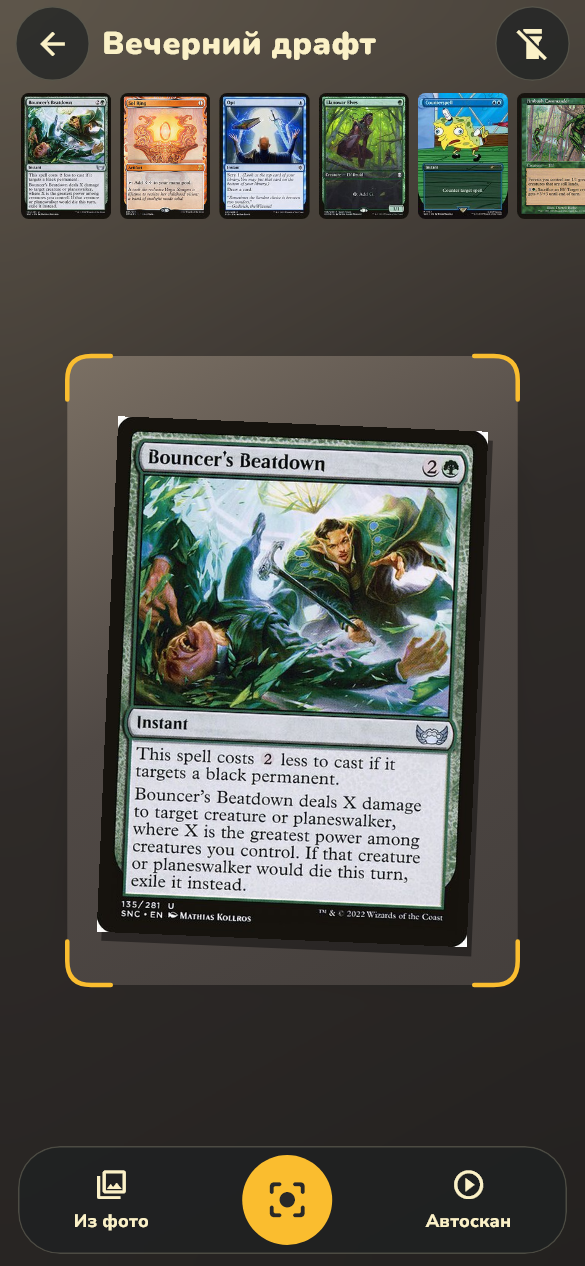
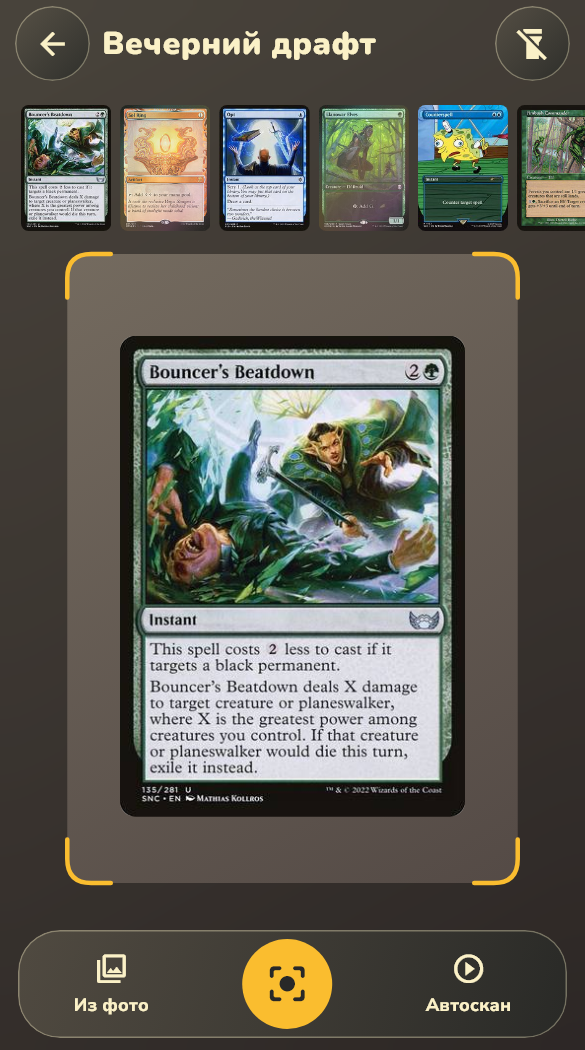
Показать интерфейс версии 0.3.0 в README и галерее

diff --git a/README.md b/README.md
@@ -2,6 +2,22 @@
 
 Автономный сканер бумажных карт Magic для Android. Создайте коллекцию, откройте её и нажмите «Сканировать карту». Включите «Автоскан» и показывайте карты по одной. При успешной записи раздаётся короткий сигнал. Для второго экземпляра той же карты нажмите затвор.
 
+## Интерфейс
+
+| Коллекции и поиск | Открытая коллекция | Сканер |
+| :---: | :---: | :---: |
+| <img src="docs/collections-album.png" alt="Коллекции с количеством карт и строкой поиска" width="220"> | <img src="docs/collection.png" alt="Вечерний драфт со счётчиками экземпляров и фольгированных карт" width="220"> | <img src="docs/scanner.png" alt="Карта в рамке сканера и лента последних добавлений" width="220"> |
+
+<details>
+<summary>Посмотреть анимации обложки и миниатюр</summary>
+
+<img src="docs/collections-motion.gif" alt="Появление списка и движение подсветки обложки" width="220">
+<img src="docs/scanner-tilt.gif" alt="Миниатюры в ленте наклоняются при касании" width="365">
+
+</details>
+
+Снимки в полном размере и пояснения к экранам — в [галерее интерфейса](docs/README.md).
+
 Верхняя лента показывает последние добавления. Нажмите миниатюру, чтобы уточнить издание и язык. Изображение берётся из Scryfall по идентификатору издания и стороне, сохраняется на телефоне и доступно при следующих просмотрах без интернета. Заранее скачать миниатюры можно через «База карт → Миниатюры выпуска офлайн». При отсутствии изображения в кэше и сети в ленте отображается название карты.
 
 Значок экспорта в открытой коллекции сохраняет CSV через системный выбор файла. В Moxfield откройте импорт коллекции и выберите формат Moxfield CSV. Файл содержит количество, название, код выпуска, коллекционный номер и язык. Одинаковые экземпляры одного издания и языка суммируются.
@@ -9,10 +25,6 @@
 Картовед читает напечатанный код языка и текст с помощью встроенных Tesseract и ML Kit. OCR настроен на латиницу и кириллицу. Для остальных письменностей помогает печатный код, если он присутствует. При неопределённом языке в CSV остаётся пустое поле. При одинаковом рисунке нескольких выпусков проверьте издание в ленте перед экспортом.
 
 ## Установка и запуск
-
-<img src="docs/scanner.png" alt="Экран сканера с примером карты" width="240"> <img src="docs/collection.png" alt="Коллекция с распознанными картами" width="240">
-
-Экраны отрисованы во Flutter. Для иллюстрации видоискателя использован контрольный снимок Bouncer’s Beatdown.
 
 Состояние коллекций и режима сканирования управляется через Cubit из flutter_bloc.
 

diff --git a/docs/README.md b/docs/README.md
@@ -1,0 +1,35 @@
+# Интерфейс Картоведа
+
+Снимки и анимации показывают интерфейс Flutter версии 0.3.0 с демонстрационной коллекцией.
+
+## Коллекции
+
+На обложке видно общее количество карт. Строка поиска открывает автономный каталог с английскими и русскими названиями.
+
+<img src="collections-album.png" alt="Главный экран с четырьмя коллекциями и поиском по названию карты" width="320">
+
+<details>
+<summary>Появление коллекций и движение подсветки</summary>
+
+![За матовой строкой поиска движется тёплая подсветка](collections-motion.gif)
+
+</details>
+
+## Открытая коллекция
+
+В «Вечернем драфте» семь экземпляров, шесть разных названий и две фольгированные карты. Кнопка внизу открывает сканер, а кнопка в правом верхнем углу сохраняет CSV для Moxfield.
+
+<img src="collection.png" alt="Список карт Вечернего драфта с количеством, языком, изданием и отметками фольги" width="320">
+
+## Камера
+
+Распознанные карты появляются в верхней ленте слева. Касание миниатюры открывает выбор издания и покрытия. Для кадра в видоискателе использован контрольный снимок Bouncer’s Beatdown.
+
+<img src="scanner.png" alt="Видоискатель с картой Bouncer’s Beatdown и лентой распознанных изданий" width="320">
+
+<details>
+<summary>Наклон миниатюр при касании</summary>
+
+![Миниатюры отклоняются в разные стороны, а фольгированные карты переливаются](scanner-tilt.gif)
+
+</details>
